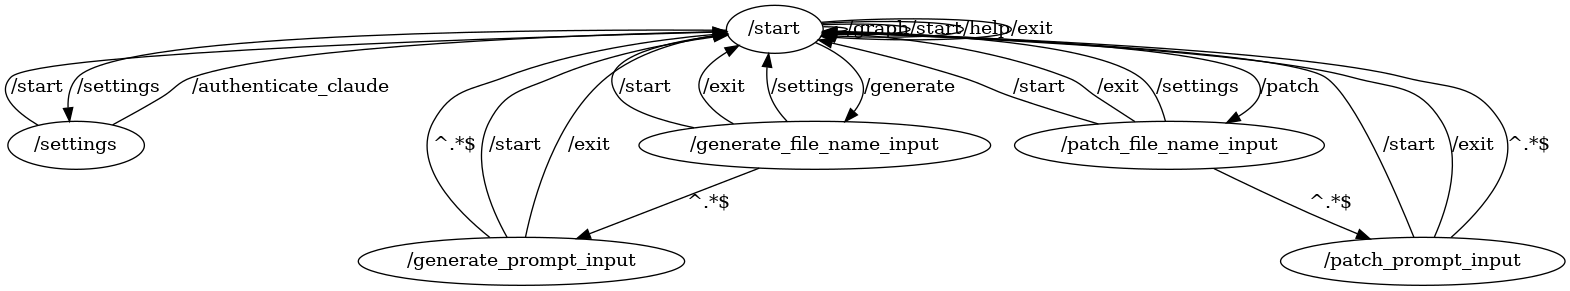
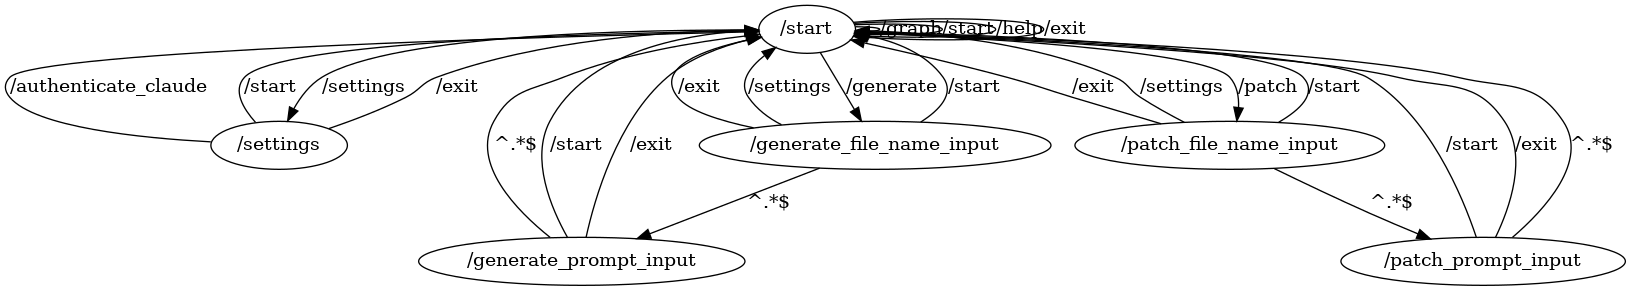
- exiting from settings.

diff --git a/flows/morph.py b/flows/morph.py
@@ -276,6 +276,7 @@ Type "/help" for more.\n''',
                 on_transition=self.build_graphviz_response_transition()) \
             .edge("/start", "/start", "/start", on_transition=main_menu_transition) \
             .edge("/start", "/settings", "/settings", on_transition=self.build_settings_transition()) \
+            .edge("/settings", "/start", "/exit", on_transition=self.build_exit_transition()) \
             .edge(
                 "/settings",
                 "/start",
